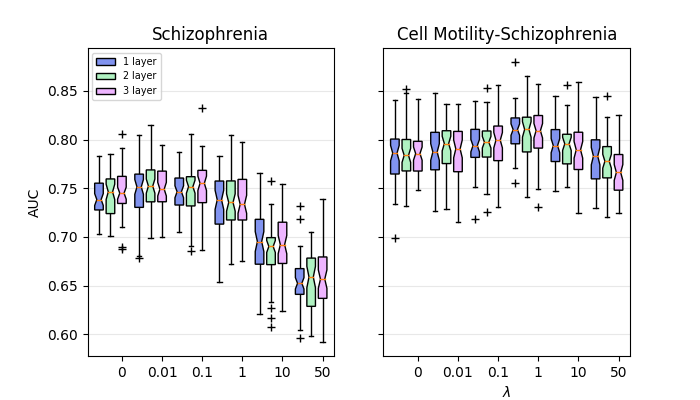
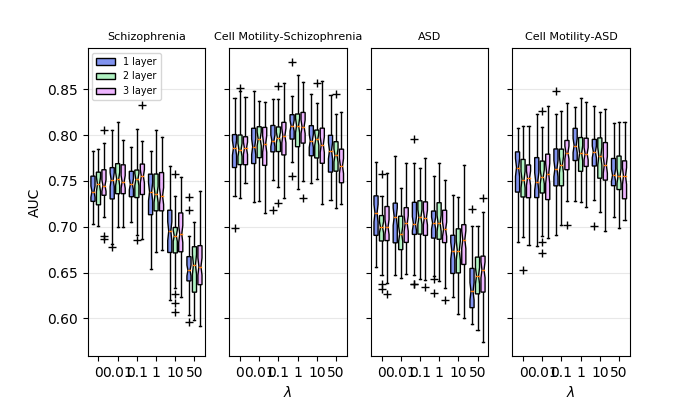
modified things to support autism results

diff --git a/source/code/chartmaker.py b/source/code/chartmaker.py
@@ -333,7 +333,7 @@ def figure_2():
     ax1.yaxis.grid(True, linestyle='-', which='major', color='lightgrey', alpha=0.5)
     ax1.set_xlim(0,32)
     ax1.set_ylabel('AUC')
-    ax1.set_title('Schizophrenia')
+    ax1.set_title('Schizophrenia', fontsize=8)
     ax1.legend([bp1['boxes'][0], bp2['boxes'][0]], ['With Negatives', 'Without Negatives'], loc='upper left', fontsize='x-small')
     
 
@@ -342,20 +342,20 @@ def figure_2():
     ax2.yaxis.grid(True, linestyle='-', which='major', color='lightgrey', alpha=0.5)
     ax2.set_xlim(0,32)
     ax2.set_xlabel('$\lambda$')
-    ax2.set_title('Cell Motility-Schizophrenia')
+    ax2.set_title('Cell Motility-Schizophrenia', fontsize=8)
 
 
     bp5 = ax3.boxplot(ASD_neg_data, notch=True, positions=[2,7,12,17,22,27], widths=1.5, sym='k+', patch_artist=True, boxprops=dict(facecolor='#8193ef'))
     bp6 = ax3.boxplot(ASD_no_neg_data, notch=True, positions=[4,9,14,19,24,29], widths=1.5, sym='k+', patch_artist=True, boxprops=dict(facecolor='#b0f2c2'), labels=['0','0.01','0.1','1','10','50'])
     ax3.yaxis.grid(True, linestyle='-', which='major', color='lightgrey', alpha=0.5)
     ax3.set_xlim(0,32)
-    ax3.set_title('ASD')
+    ax3.set_title('ASD', fontsize=8)
 
     bp7 = ax4.boxplot(CM_ASD_neg_data, notch=True, positions=[2,7,12,17,22,27], widths=1.5, sym='k+', patch_artist=True, boxprops=dict(facecolor='#8193ef'))
     bp7 = ax4.boxplot(CM_ASD_no_neg_data, notch=True, positions=[4,9,14,19,24,29], widths=1.5, sym='k+', patch_artist=True, boxprops=dict(facecolor='#b0f2c2'), labels=['0','0.01','0.1','1','10','50'])
     ax4.yaxis.grid(True, linestyle='-', which='major', color='lightgrey', alpha=0.5)
     ax4.set_xlim(0,32)
-    ax4.set_title('CM-ASD')
+    ax4.set_title('CM-ASD', fontsize=8)
 
 
     plt.savefig('../outfiles/compare_neg_noneg.png')
@@ -423,7 +423,7 @@ def figure_3():
     ax2.yaxis.grid(True, linestyle='-', which='major', color='lightgrey', alpha=0.5)
     ax2.set_xlim(0,8)
     ax2.set_xlabel('Layers')
-    ax2.set_title('Autism')
+    ax2.set_title('ASD')
 
 
     bp5 = ax3.boxplot(CM_data, notch=True, positions=[2,4,6], widths=1.5, sym='k+', patch_artist=True, boxprops=dict(facecolor='#8193ef'), labels=['1','2','3'])
@@ -507,13 +507,90 @@ def figure_3_full():
     SZ_3_data = [SZ_zero_3, SZ_pt_zo_3, SZ_pt_o_3, SZ_o_3, SZ_ten_3, SZ_fifty_3]
     CM_SZ_3_data = [CM_SZ_zero_3, CM_SZ_pt_zo_3, CM_SZ_pt_o_3,CM_SZ_o_3, CM_SZ_ten_3, CM_SZ_fifty_3]
 
+
+
+
+
+    zero_file='../outfiles/ASD_1-layer_0-sinksource_auc.txt'
+    ASD_zero, CM_ASD_zero = file_parser(zero_file)
+
+    point_zero_one_file='../outfiles/ASD_1-layer_0.01-sinksource_auc.txt'
+    ASD_pt_zo, CM_ASD_pt_zo = file_parser(point_zero_one_file)
+
+    point_one_file='../outfiles/ASD_1-layer_0.1-sinksource_auc.txt'
+    ASD_pt_o, CM_ASD_pt_o = file_parser(point_one_file)
+
+    one_file='../outfiles/ASD_1-layer_1-sinksource_auc.txt'
+    ASD_o, CM_ASD_o = file_parser(one_file)
+
+    ten_file='../outfiles/ASD_1-layer_10-sinksource_auc.txt'
+    ASD_ten, CM_ASD_ten = file_parser(ten_file)
+
+    fifty_file='../outfiles/ASD_1-layer_50-sinksource_auc.txt'
+    ASD_fifty, CM_ASD_fifty = file_parser(fifty_file)
+
+    ASD_1_data = [ASD_zero, ASD_pt_zo, ASD_pt_o, ASD_o,ASD_ten, ASD_fifty]
+    CM_ASD_1_data = [CM_ASD_zero, CM_ASD_pt_zo, CM_ASD_pt_o, CM_ASD_o,CM_ASD_ten, CM_ASD_fifty]
+
+
+    #Get negative data
+    zero_file='../outfiles/ASD_2-layer_0-sinksource_auc.txt'
+    ASD_zero_2, CM_ASD_zero_2 = file_parser(zero_file)
+
+    point_zero_one_file='../outfiles/ASD_2-layer_0.01-sinksource_auc.txt'
+    ASD_pt_zo_2, CM_ASD_pt_zo_2 = file_parser(point_zero_one_file)
+
+    point_one_file='../outfiles/ASD_2-layer_0.1-sinksource_auc.txt'
+    ASD_pt_o_2, CM_ASD_pt_o_2 = file_parser(point_one_file)
+
+    one_file='../outfiles/ASD_2-layer_1-sinksource_auc.txt'
+    ASD_o_2, CM_ASD_o_2 = file_parser(one_file)
+
+    ten_file='../outfiles/ASD_2-layer_10-sinksource_auc.txt'
+    ASD_ten_2, CM_ASD_ten_2 = file_parser(ten_file)
+
+    fifty_file='../outfiles/ASD_2-layer_50-sinksource_auc.txt'
+    ASD_fifty_2, CM_ASD_fifty_2 = file_parser(fifty_file)
+
+    ASD_2_data = [ASD_zero_2, ASD_pt_zo_2, ASD_pt_o_2, ASD_o_2, ASD_ten_2, ASD_fifty_2]
+    CM_ASD_2_data = [CM_ASD_zero_2, CM_ASD_pt_zo_2, CM_ASD_pt_o_2,CM_ASD_o_2, CM_ASD_ten_2, CM_ASD_fifty_2]
+
+
+    zero_file='../outfiles/ASD_3-layer_0-sinksource_auc.txt'
+    ASD_zero_3, CM_ASD_zero_3 = file_parser(zero_file)
+
+    point_zero_one_file='../outfiles/ASD_3-layer_0.01-sinksource_auc.txt'
+    ASD_pt_zo_3, CM_ASD_pt_zo_3 = file_parser(point_zero_one_file)
+
+    point_one_file='../outfiles/ASD_3-layer_0.1-sinksource_auc.txt'
+    ASD_pt_o_3, CM_ASD_pt_o_3 = file_parser(point_one_file)
+
+    one_file='../outfiles/ASD_3-layer_1-sinksource_auc.txt'
+    ASD_o_3, CM_ASD_o_3 = file_parser(one_file)
+
+    ten_file='../outfiles/ASD_3-layer_10-sinksource_auc.txt'
+    ASD_ten_3, CM_ASD_ten_3 = file_parser(ten_file)
+
+    fifty_file='../outfiles/ASD_3-layer_50-sinksource_auc.txt'
+    ASD_fifty_3, CM_ASD_fifty_3 = file_parser(fifty_file)
+
+    ASD_3_data = [ASD_zero_3, ASD_pt_zo_3, ASD_pt_o_3, ASD_o_3, ASD_ten_3, ASD_fifty_3]
+    CM_ASD_3_data = [CM_ASD_zero_3, CM_ASD_pt_zo_3, CM_ASD_pt_o_3,CM_ASD_o_3, CM_ASD_ten_3, CM_ASD_fifty_3]
+
+
+
+
+
+
+
+
     #Compare 2 layer to 1 layer and 3 layer for each positive set
     #Create lists for each positive set of what data to compare [2 layer AUCs, 1 layer, 3 layer]
 
 
-    one_list = [SZ_1_data, CM_SZ_1_data]
-    two_list = [SZ_2_data, CM_SZ_2_data]
-    three_list = [SZ_3_data, CM_SZ_3_data]
+    one_list = [SZ_1_data, CM_SZ_1_data, ASD_1_data, CM_ASD_1_data]
+    two_list = [SZ_2_data, CM_SZ_2_data, ASD_2_data, CM_ASD_2_data]
+    three_list = [SZ_3_data, CM_SZ_3_data, ASD_3_data, CM_ASD_3_data]
 
 
 
@@ -549,10 +626,10 @@ def figure_3_full():
                 out.write('Schizophrenia\n\n')
             if i == 1:
                 out.write('Cell Motility-SZ\n\n')
-            # if j == 2:
-            #     out.write('ASD\t')
-            # if j == 3:
-            #     out.write('Cell Motility-ASD\t')
+            if i == 2:
+                out.write('ASD\t')
+            if i == 3:
+                out.write('Cell Motility-ASD\t')
             for j in range(len(one_list[i])):
                 if j == 0:
                     out.write('Lambda=0\n')
@@ -616,25 +693,43 @@ def figure_3_full():
     # ASD_data = [ASD_other_one, ASD_two, ASD_three]
     
 
-    fig3, (ax1, ax2) = plt.subplots(ncols=2, nrows=1, sharey=True, figsize=(7,4))
+    fig3, (ax1, ax2, ax3, ax4) = plt.subplots(ncols=4, nrows=1, sharey=True, figsize=(7,4))
 
     bp1 = ax1.boxplot(SZ_1_data, notch=True, positions=[2,9,16,23,30,37], widths=1.5, sym='k+', patch_artist=True, boxprops=dict(facecolor='#8193ef'))
-    bp2 = ax1.boxplot(SZ_2_data, notch=True, positions=[4,11,18,25,32,39], widths=1.5, sym='k+', patch_artist=True, boxprops=dict(facecolor='#b0f2c2'))
-    bp3 = ax1.boxplot(SZ_3_data, notch=True, positions=[6,13,20,27,34,41], widths=1.5, sym='k+', patch_artist=True, boxprops=dict(facecolor='#eeb5ff'), labels=['0','0.01','0.1','1','10','50'])
+    bp3 = ax1.boxplot(SZ_3_data, notch=True, positions=[6,13,20,27,34,41], widths=1.5, sym='k+', patch_artist=True, boxprops=dict(facecolor='#eeb5ff'))
+    bp2 = ax1.boxplot(SZ_2_data, notch=True, positions=[4,11,18,25,32,39], widths=1.5, sym='k+', patch_artist=True, boxprops=dict(facecolor='#b0f2c2'), labels=['0','0.01','0.1','1','10','50'])
     ax1.yaxis.grid(True, linestyle='-', which='major', color='lightgrey', alpha=0.5)
     ax1.set_xlim(0,43)
     ax1.set_ylabel('AUC')
-    ax1.set_title('Schizophrenia')
+    ax1.set_title('Schizophrenia', fontsize=8)
     ax1.legend([bp1['boxes'][0], bp2['boxes'][0], bp3['boxes'][0]], ['1 layer', '2 layer', '3 layer'], loc='upper left', fontsize='x-small')
     
 
     bp4 = ax2.boxplot(CM_SZ_1_data, notch=True, positions=[2,9,16,23,30,37], widths=1.5, sym='k+', patch_artist=True, boxprops=dict(facecolor='#8193ef'))
-    bp5 = ax2.boxplot(CM_SZ_2_data, notch=True, positions=[4,11,18,25,32,39], widths=1.5, sym='k+', patch_artist=True, boxprops=dict(facecolor='#b0f2c2'))
-    bp6 = ax2.boxplot(CM_SZ_3_data, notch=True, positions=[6,13,20,27,34,41], widths=1.5, sym='k+', patch_artist=True, boxprops=dict(facecolor='#eeb5ff'), labels=['0','0.01','0.1','1','10','50'])
+    bp6 = ax2.boxplot(CM_SZ_3_data, notch=True, positions=[6,13,20,27,34,41], widths=1.5, sym='k+', patch_artist=True, boxprops=dict(facecolor='#eeb5ff'))
+    bp5 = ax2.boxplot(CM_SZ_2_data, notch=True, positions=[4,11,18,25,32,39], widths=1.5, sym='k+', patch_artist=True, boxprops=dict(facecolor='#b0f2c2'), labels=['0','0.01','0.1','1','10','50'])
     ax2.yaxis.grid(True, linestyle='-', which='major', color='lightgrey', alpha=0.5)
     ax2.set_xlim(0,43)
     ax2.set_xlabel('$\lambda$')
-    ax2.set_title('Cell Motility-Schizophrenia')
+    ax2.set_title('Cell Motility-Schizophrenia', fontsize=8)
+
+    bp7 = ax3.boxplot(ASD_1_data, notch=True, positions=[2,9,16,23,30,37], widths=1.5, sym='k+', patch_artist=True, boxprops=dict(facecolor='#8193ef'))
+    bp9 = ax3.boxplot(ASD_3_data, notch=True, positions=[6,13,20,27,34,41], widths=1.5, sym='k+', patch_artist=True, boxprops=dict(facecolor='#eeb5ff'))
+    bp8 = ax3.boxplot(ASD_2_data, notch=True, positions=[4,11,18,25,32,39], widths=1.5, sym='k+', patch_artist=True, boxprops=dict(facecolor='#b0f2c2'), labels=['0','0.01','0.1','1','10','50'])
+    ax1.yaxis.grid(True, linestyle='-', which='major', color='lightgrey', alpha=0.5)
+    ax3.set_xlim(0,43)
+    ax3.set_title('ASD', fontsize=8)
+    
+
+    bp10 = ax4.boxplot(CM_ASD_1_data, notch=True, positions=[2,9,16,23,30,37], widths=1.5, sym='k+', patch_artist=True, boxprops=dict(facecolor='#8193ef'))
+    bp12 = ax4.boxplot(CM_ASD_3_data, notch=True, positions=[6,13,20,27,34,41], widths=1.5, sym='k+', patch_artist=True, boxprops=dict(facecolor='#eeb5ff'))
+    bp11 = ax4.boxplot(CM_ASD_2_data, notch=True, positions=[4,11,18,25,32,39], widths=1.5, sym='k+', patch_artist=True, boxprops=dict(facecolor='#b0f2c2'), labels=['0','0.01','0.1','1','10','50'])
+
+    ax4.yaxis.grid(True, linestyle='-', which='major', color='lightgrey', alpha=0.5)
+    ax4.set_xlim(0,43)
+    ax4.set_xlabel('$\lambda$')
+    ax4.set_title('Cell Motility-ASD', fontsize=8)
+
 
 
     # bp5 = ax3.boxplot(CM_data, notch=True, positions=[2,4,6], widths=1.5, sym='k+', patch_artist=True, boxprops=dict(facecolor='#8193ef'), labels=['1','2','3'])
